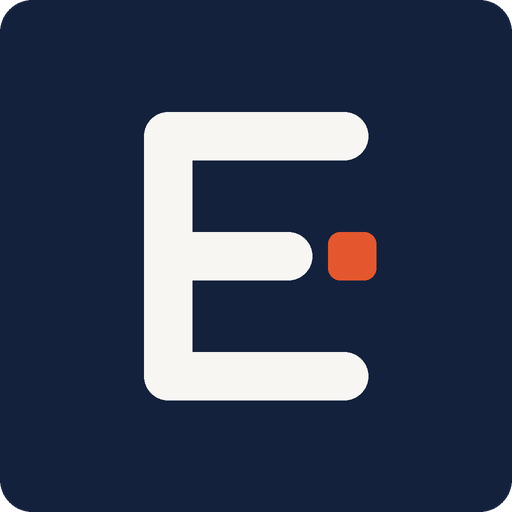
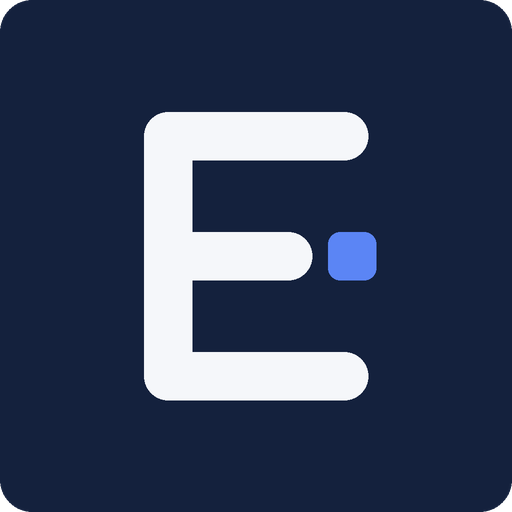
Cobalt palette, always-on motion, and a reliable browser harness
- Replace the beige paper and orange accent with snow paper, navy ink, and cobalt; recolor the logo
- Keep motion on even when the system turns animation effects off, as the owner asked
- Let the browser pick a free debugging port and use the run's own about:blank page
- Do not require the private Arabic fonts in a fresh clone; print CI failures as annotations
- Cache vendored KaTeX and anime.js for a week

Changed region(s): [[0.625, 0.4375, 0.75, 0.5625]]

diff --git a/web-app/css/styles.css b/web-app/css/styles.css
@@ -524,36 +524,36 @@ kbd { display: inline-block; min-width: 22px; padding: 1px 6px; border: 1px soli
 /* ==========================================================================
    Interface layer (2026-10-02, round 5): drafting notebook. Concept generated in
    Google Stitch (project "Estimate 456 - CPIT 456 estimation"), then adapted.
-   Paper with a faint grid, ink navy, one signal orange, sharp corners, ledger
+   Paper with a faint grid, ink navy, one cobalt accent, sharp corners, ledger
    results with dotted leaders, and worked-solution steps as index cards.
    Fira Code for English and numbers. Arabic: Saudi for text and The Year of
    Handicrafts for headings on the published site, Alexandria as fallback.
    ========================================================================== */
 :root,
 :root[data-theme="light"] {
-  --bg: #f7f6f2;
-  --grid: #ebe8e0;
-  --surface: #fdfcf9;
-  --surface-2: #efece6;
-  --field: #fdfdfb;
-  --border: #d9d5cc;
-  --border-strong: #aaa59a;
+  --bg: #f5f7fa;
+  --grid: #e6eaf0;
+  --surface: #fbfcfd;
+  --surface-2: #edf0f5;
+  --field: #fdfeff;
+  --border: #d5dbe4;
+  --border-strong: #a2acbb;
   --text: #14213d;
-  --text-2: #475266;
-  --text-3: #5b6578;
-  --accent: #b83c15;
-  --accent-hover: #9c3110;
-  --accent-soft: #f7e1d8;
-  --accent-tint: #fbf0eb;
+  --text-2: #465168;
+  --text-3: #5a6479;
+  --accent: #2c56c9;
+  --accent-hover: #2246a8;
+  --accent-soft: #dde5f8;
+  --accent-tint: #eef2fb;
   --ink: #14213d;
-  --on-ink: #fdfcf9;
-  --on-accent: #fdfcf9;
+  --on-ink: #fbfcfd;
+  --on-accent: #fbfcfd;
   --focus: #14213d;
   --shadow-card: none;
 }
 :root[data-theme="dark"] {
-  --bg: #0f141d;
-  --grid: #161d29;
+  --bg: #0d1320;
+  --grid: #151d2c;
   --surface: #141b26;
   --surface-2: #1b2433;
   --field: #111823;
@@ -562,13 +562,13 @@ kbd { display: inline-block; min-width: 22px; padding: 1px 6px; border: 1px soli
   --text: #e9edf4;
   --text-2: #a9b3c4;
   --text-3: #8e99ad;
-  --accent: #ff7d55;
-  --accent-hover: #ff9a7a;
-  --accent-soft: #3a2119;
-  --accent-tint: #221a19;
+  --accent: #86a4ff;
+  --accent-hover: #a9bfff;
+  --accent-soft: #1c2a4c;
+  --accent-tint: #151e33;
   --ink: #e9edf4;
-  --on-ink: #0f141d;
-  --on-accent: #0f141d;
+  --on-ink: #0d1320;
+  --on-accent: #0d1320;
   --focus: #e9edf4;
   --shadow-card: none;
 }
@@ -911,10 +911,6 @@ main { padding-top: 40px; }
   .page-icon { display: none; }
   .page-head > div:first-child { grid-template-columns: minmax(0, 1fr); }
   .page-head > div:first-child > :not(.page-icon) { grid-column: 1; }
-}
-
-@media (prefers-reduced-motion: reduce) {
-  *, *::before, *::after { transition-duration: 0s !important; animation: none !important; scroll-behavior: auto !important; }
 }
 
 @media print {

diff --git a/web-app/js/motion.js b/web-app/js/motion.js
@@ -7,9 +7,9 @@
   // 2. Entrance motion for sheets, cards, and worked-solution steps, using anime.js
   //    (vendor/anime, MIT). Numbers are never animated, so every result is correct
   //    the moment it appears.
-  // Everything is skipped when the viewer asks for reduced motion.
+  // Motion stays on even when the system turns animation effects off, as the owner asked.
+  // The network only pauses while the tab is hidden.
 
-  const reduced = window.matchMedia("(prefers-reduced-motion: reduce)");
   const A = window.anime;
   const css = (name) => getComputedStyle(document.documentElement).getPropertyValue(name).trim();
 
@@ -46,9 +46,9 @@
     }
 
     function draw(step) {
-      const line = css("--border-strong") || "#aaa59a";
+      const line = css("--border-strong") || "#a2acbb";
       const dot = css("--text-3") || "#5b6578";
-      const hot = css("--accent") || "#b83c15";
+      const hot = css("--accent") || "#2c56c9";
       ctx.clearRect(0, 0, width, height);
       const reach = Math.min(150, Math.max(90, width / 9));
       for (const p of points) {
@@ -101,7 +101,7 @@
     function play() {
       cancelAnimationFrame(frame);
       const visible = !document.hidden && !canvas.closest("[hidden]");
-      if (reduced.matches || !visible) { draw(false); return; }
+      if (!visible) { draw(false); return; }
       frame = requestAnimationFrame(loop);
     }
 
@@ -110,7 +110,6 @@
     window.addEventListener("resize", () => { size(); play(); });
     document.addEventListener("visibilitychange", play);
     window.addEventListener("hashchange", play);
-    reduced.addEventListener("change", play);
     host.addEventListener("pointermove", (e) => { const r = canvas.getBoundingClientRect(); mouse.x = e.clientX - r.left; mouse.y = e.clientY - r.top; });
     host.addEventListener("pointerleave", () => { mouse.x = -9999; mouse.y = -9999; });
     // Redraw in the new colors when the theme changes.
@@ -120,7 +119,7 @@
   /* 2. Entrance motion */
 
   function enter(targets) {
-    if (!A || reduced.matches || !targets.length) return;
+    if (!A || !targets.length) return;
     A.animate(targets, {
       opacity: [0, 1],
       translateY: [14, 0],
@@ -144,7 +143,6 @@
     if (!A) return;
     document.querySelectorAll(".trace-panel").forEach((panel) => {
       new MutationObserver(() => {
-        if (reduced.matches) return;
         const steps = [...panel.querySelectorAll(".trace > li")];
         if (!steps.length || panel.dataset.seen === String(steps.length) + panel.querySelector(".trace").className) return;
         panel.dataset.seen = String(steps.length) + panel.querySelector(".trace").className;

diff --git a/web-app/index.html b/web-app/index.html
@@ -5,7 +5,7 @@
     <meta name="viewport" content="width=device-width, initial-scale=1" />
     <meta name="description" content="Estimate 456: bilingual software project estimation with source-based formulas and worked solutions" />
     <meta name="color-scheme" content="light dark" />
-    <meta name="theme-color" content="#fdfcf9" />
+    <meta name="theme-color" content="#fbfcfd" />
     <title>Estimate 456 | CPIT 456</title>
     <link rel="icon" type="image/svg+xml" href="../assets/brand/estimate-456-mark.svg" />
     <link rel="icon" type="image/png" sizes="32x32" href="../assets/brand/estimate-456-mark-32.png" />

diff --git a/web-app/tools/build-site.js b/web-app/tools/build-site.js
@@ -54,6 +54,11 @@ const VERCEL = {
       source: "/assets/fonts/private/(.*)",
       headers: [{ key: "Cache-Control", value: "public, max-age=31536000, immutable" }],
     },
+    {
+      // KaTeX and anime.js change only when their pinned version is updated.
+      source: "/vendor/(.*)",
+      headers: [{ key: "Cache-Control", value: "public, max-age=604800" }],
+    },
   ],
 };
 

diff --git a/assets/brand/render_png.py b/assets/brand/render_png.py
@@ -10,7 +10,7 @@ from PIL import Image, ImageDraw
 
 HERE = Path(__file__).resolve().parent
 SCALE = 16  # draw at 1024 px, then downsample for clean edges
-TILE, MARK, POINT = "#14213d", "#f7f6f2", "#e4572e"
+TILE, MARK, POINT = "#14213d", "#f5f7fa", "#5b85f5"
 
 
 def draw() -> Image.Image:

diff --git a/docs/DESIGN.md b/docs/DESIGN.md
@@ -27,16 +27,16 @@ spacing:
 Concept generated in Google Stitch (project "Estimate 456 - CPIT 456 estimation"), then adapted to the app. Only real lecture content is shown; none of the labels Stitch invented were used. Where older notes below disagree, this section wins.
 
 - Feel: an engineering drafting notebook. Paper page with a faint 24 px grid, sheets with 1 px rules, sharp corners (0 radius), no shadows except a flat 4 px offset on hovered cards.
-- Colors. Light (default): paper `#f7f6f2`, sheets `#fdfcf9`, ink navy text and primary buttons `#14213d`, signal orange `#b83c15` for labels, step numbers, the active link, and linked values. Dark: page `#0f141d`, sheets `#141b26`, text `#e9edf4`, orange `#ff7d55`.
+- Colors. Light (default): cool snow paper `#f5f7fa`, sheets `#fbfcfd`, ink navy text and primary buttons `#14213d`, cobalt `#2c56c9` for labels, step numbers, the active link, and linked values. Dark: page `#0d1320`, sheets `#141b26`, text `#e9edf4`, cobalt `#86a4ff`. No beige and no orange: the owner found them generic.
 - Type: Fira Code for all English text and numbers. Arabic: the Saudi font for text and The Year of Handicrafts for page headings (both Ministry of Culture, on the published site only), Alexandria as fallback.
-- Layout: one top bar with the logo, Part 1 and Part 2 links (the part labels in orange), and buttons for search, theme (moon in light, sun in dark), and language. Page title with a ruled line under it. Inputs sheet beside the result.
+- Layout: one top bar with the logo, Part 1 and Part 2 links (the part labels in cobalt), and buttons for search, theme (moon in light, sun in dark), and language. Page title with a ruled line under it. Inputs sheet beside the result.
 - Inputs: label above, value on the left, unit in a tinted slot on the right.
 - Result: a double ruled frame, the answer in a tinted box, then a ledger with dotted leaders and striped rows.
 - Worked solution: each step is an index card: STEP n, the title, the lecture value, the formula in a tinted box, then the substituted values.
 - Choices and tabs: contiguous bordered segments; the chosen one is filled with ink.
-- Home: an orange section tag, a large headline, two part panels joined in one frame with big 01 and 02 numerals, then the chosen part's method cards.
+- Home: a cobalt section tag, a large headline, two part panels joined in one frame with big 01 and 02 numerals, then the chosen part's method cards.
 - No tap highlight, no focus frame on the page area, no flash on changed results.
-- Motion: the home heading sits on a live blueprint particle network (own canvas code inspired by particles.js, in the page colors, reacting to the pointer). Pages, cards, and worked-solution steps enter with short staggered motion from anime.js. Results never animate their numbers. All motion stops under prefers-reduced-motion and the network pauses when the tab is hidden. Three.js was considered and left out: it is heavy and a 3D scene does not help a calculator.
+- Motion: the home heading sits on a live blueprint particle network (own canvas code inspired by particles.js, in the page colors, reacting to the pointer). Pages, cards, and worked-solution steps enter with short staggered motion from anime.js. Results never animate their numbers. Motion stays on even when the system turns animation effects off (the owner's choice); the network pauses only while the tab is hidden. Three.js was considered and left out: it is heavy and a 3D scene does not help a calculator.
 - Formulas: typeset with KaTeX (vendored) in a tinted box; powers in the substituted values are superscripts. The same symbolic TeX serves both languages and the Glossary defines the symbols.
 - Learn pages: Course notes (table of contents beside sections, each with its source and a link to its calculator) and Glossary (filterable cards with the term, its formula, a definition, and where it is used). The top bar lists them after Part 2.
 
@@ -216,7 +216,6 @@ Use native Streamlit theme variants in `.streamlit/config.toml`. Define complete
 - Default interaction transition: 120 to 180 milliseconds.
 - Animate opacity, color, border color, or transform only when the change communicates state.
 - Do not animate table layout, width, height, or calculation output positions.
-- Respect `prefers-reduced-motion` and disable nonessential transitions.
 - No decorative entrance animation is required.
 
 # Icons and visual assets
@@ -243,7 +242,7 @@ When complete, Chapter 4 should use the same surface, table, input, validation, 
 - Color never communicates meaning alone.
 - Minimum 44 by 44 pixel touch targets where practical.
 - Verify at 375, 768, 1024, and 1440 pixels.
-- Verify light, dark, keyboard-only, and reduced-motion behavior.
+- Verify light, dark, and keyboard-only behavior.
 - Verify browser console output and Streamlit AppTest results.
 
 # Anti-patterns

diff --git a/assets/README.md b/assets/README.md
@@ -10,7 +10,7 @@
 
 | Asset | Source | License | Notes |
 |---|---|---|---|
-| `brand/estimate-456-mark.svg` and PNGs | Drawn for this project | Project-owned | Ink navy tile `#14213d` with a paper E and one signal orange point `#e4572e` |
+| `brand/estimate-456-mark.svg` and PNGs | Drawn for this project | Project-owned | Ink navy tile `#14213d` with a snow E and one cobalt point `#5b85f5` |
 | `icons/*.svg` | Drawn for this project | Project-owned | 24 px grid, 1.75 stroke |
 | GitHub mark in the footer | `mark-github` from GitHub Octicons | MIT; GitHub logo used only to link to the repository | Inline SVG path in `web-app/index.html` |
 | `fonts/Alexandria-Variable-arabic.woff2` | npm `@fontsource-variable/alexandria` 5.3.0, same family as the user's `Desktop\Random\Assets\Fontss\Alexandria` | SIL OFL 1.1, `fonts/licenses/Alexandria-OFL.txt` | Arabic fallback |

diff --git a/docs/CHANGELOG.md b/docs/CHANGELOG.md
@@ -7,8 +7,10 @@
   (31 terms with symbols and definitions).
 - COCOMO now gives development time and staff on every level, from the COCOMO
   article read in class: Tdev = 2.5 x E^d, staff = E / Tdev.
+- New palette: cool snow paper, ink navy, and a cobalt accent replace the
+  beige and orange. The logo point is cobalt too.
 - A moving blueprint network on the home page and quiet entrance motion, with
-  anime.js. Both stop when the system asks for reduced motion.
+  anime.js.
 - The web app is split into `css/`, `js/`, and `vendor/`. Documentation moved
   into `docs/`. Added contributing, security, issue and pull request
   templates, and a GitHub Actions test workflow.

diff --git a/docs/ARCHITECTURE.md b/docs/ARCHITECTURE.md
@@ -23,7 +23,7 @@ Scripts load in this order, each adding one global object:
 | `js/ui.js` | `UI` | shared rendering: worked-solution steps, tables, number format |
 | `js/app.js` | none | binds each page's inputs to `LOGIC` and renders the result |
 | `vendor/anime/anime.umd.min.js` | `anime` | motion (MIT, vendored) |
-| `js/motion.js` | none | home network canvas and entrance motion; respects reduced motion |
+| `js/motion.js` | none | home network canvas and entrance motion; always on, pauses in a hidden tab |
 
 Data flows one way: an input changes, `app.js` reads every input on that page,
 calls one `LOGIC` function, and redraws the result and its worked solution.

diff --git a/README.md b/README.md
@@ -36,7 +36,7 @@
   for it and says why. [docs/TRACEABILITY.md](docs/TRACEABILITY.md) maps each
   formula to its lecture page and its test.
 - **Bilingual and accessible.** Full RTL Arabic, light and dark themes,
-  keyboard support, and reduced-motion support.
+  and keyboard support.
 
 | Worked solution | Dark theme |
 |---|---|
